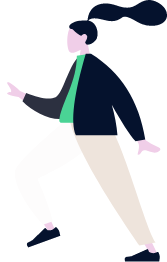
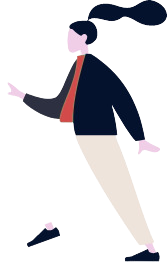
change primary color

diff --git a/src/app/layout/common/features/features.component.html b/src/app/layout/common/features/features.component.html
@@ -7,21 +7,21 @@
         <div class="row justify-content-center">
             <div class="col-lg-4 col-md-6">
                 <div class="single-feature">
-                    <img src="assets/images/icon/learning.png" alt="Image">
+                    <img src="assets/images/icon/learning.jpg" alt="Image">
                     <h3>Accélérer l'apprentissage</h3>
                     <p>Adopter des techniques d'apprentissage rapide</p>
                 </div>
             </div>
             <div class="col-lg-4 col-md-6">
                 <div class="single-feature">
-                    <img src="assets/images/icon/source.png" alt="Image">
+                    <img src="assets/images/icon/source.jpg" alt="Image">
                     <h3>Plateforme open-source</h3>
                     <p>La plateforme open-source d'apprentissage en ligne</p>
                 </div>
             </div>
             <div class="col-lg-4 col-md-6">
                 <div class="single-feature">
-                    <img src="assets/images/icon/out-line.png" alt="Image">
+                    <img src="assets/images/icon/out-line.jpg" alt="Image">
                     <h3>Efficacité maximale</h3>
                     <p>L'apprentissage du cours permet d'atteindre une efficacité maximale</p>
                 </div>

diff --git a/src/app/modules/student-dashboard/student-navbar/student-navbar.component.html b/src/app/modules/student-dashboard/student-navbar/student-navbar.component.html
@@ -2,7 +2,7 @@
 <nav class="db-navbar navbar navbar-light bg-light">
     <div class="container-fluid">
         <a routerLink="/student-dashboard" class="navbar-brand me-0">
-            <img src="assets/images/logo.jpg" alt="Image">
+            <img src="assets/images/logo.png" alt="Image">
         </a>
         <h3>Tableau de bord</h3>
         <button class="navbar-toggler" type="button" (click)="sidebarSwitcherToggleClass()">

diff --git a/src/app/layout/common/subscribe/subscribe.component.html b/src/app/layout/common/subscribe/subscribe.component.html
@@ -14,7 +14,7 @@
                 </form>
             </div>
             <div class="community-shape-1">
-                <img src="assets/images/community-shape-1.png" alt="Image">
+                <img src="assets/images/community-shape-2.png" alt="Image">
             </div>
             <div class="community-shape-2">
                 <img src="assets/images/community-shape-2.png" alt="Image">

diff --git a/src/styles.scss b/src/styles.scss
@@ -3,7 +3,7 @@
 /* You can add global styles to this file, and also import other style files */
 :root {
     --fontFamily: 'Roboto', sans-serif;
-    --primaryColor: #1bbf72;
+    --primaryColor: #05098f;
     --secondaryColor: #7360ff;
     --whiteColor: #ffffff;
     --blackColor: #000000;
